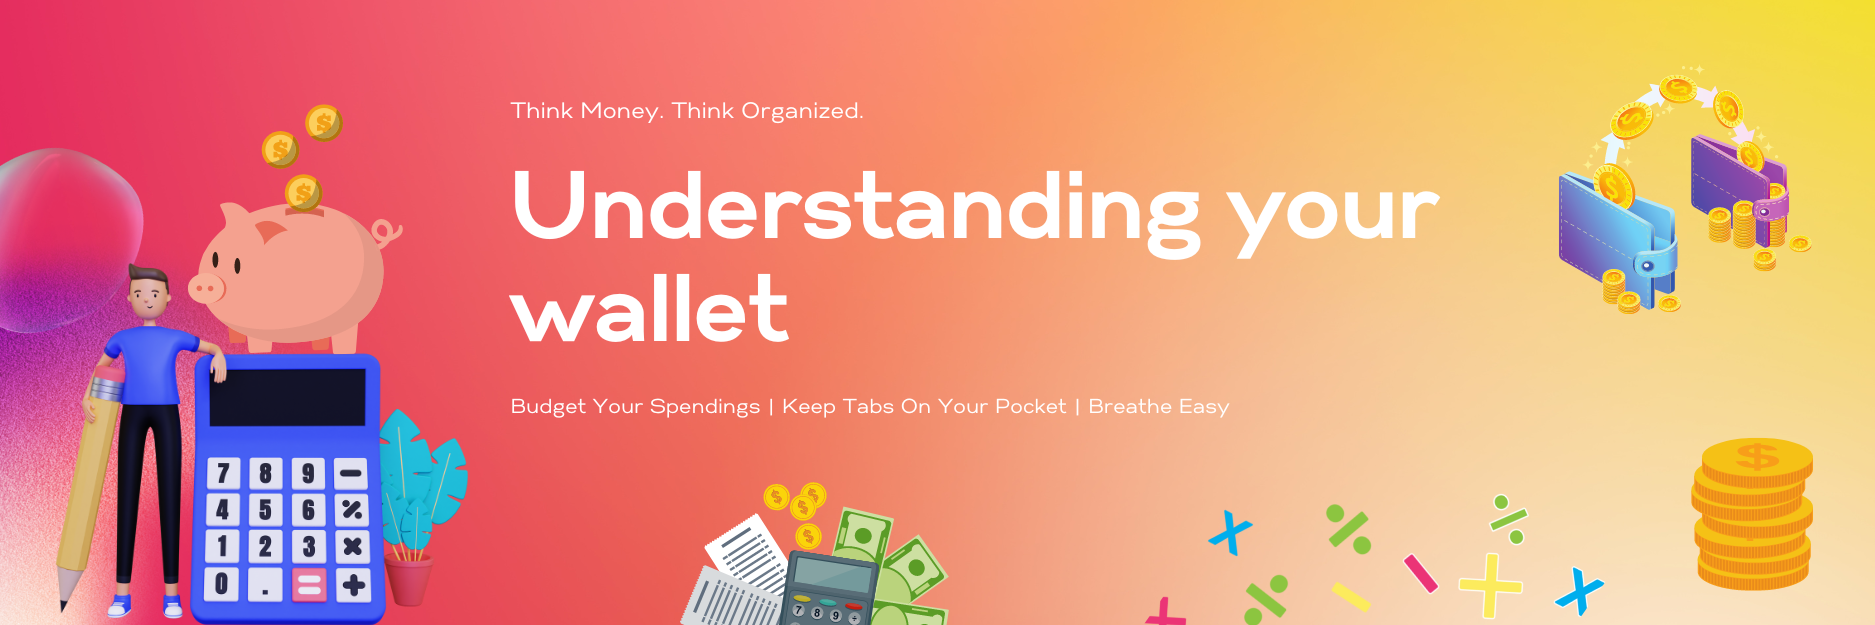
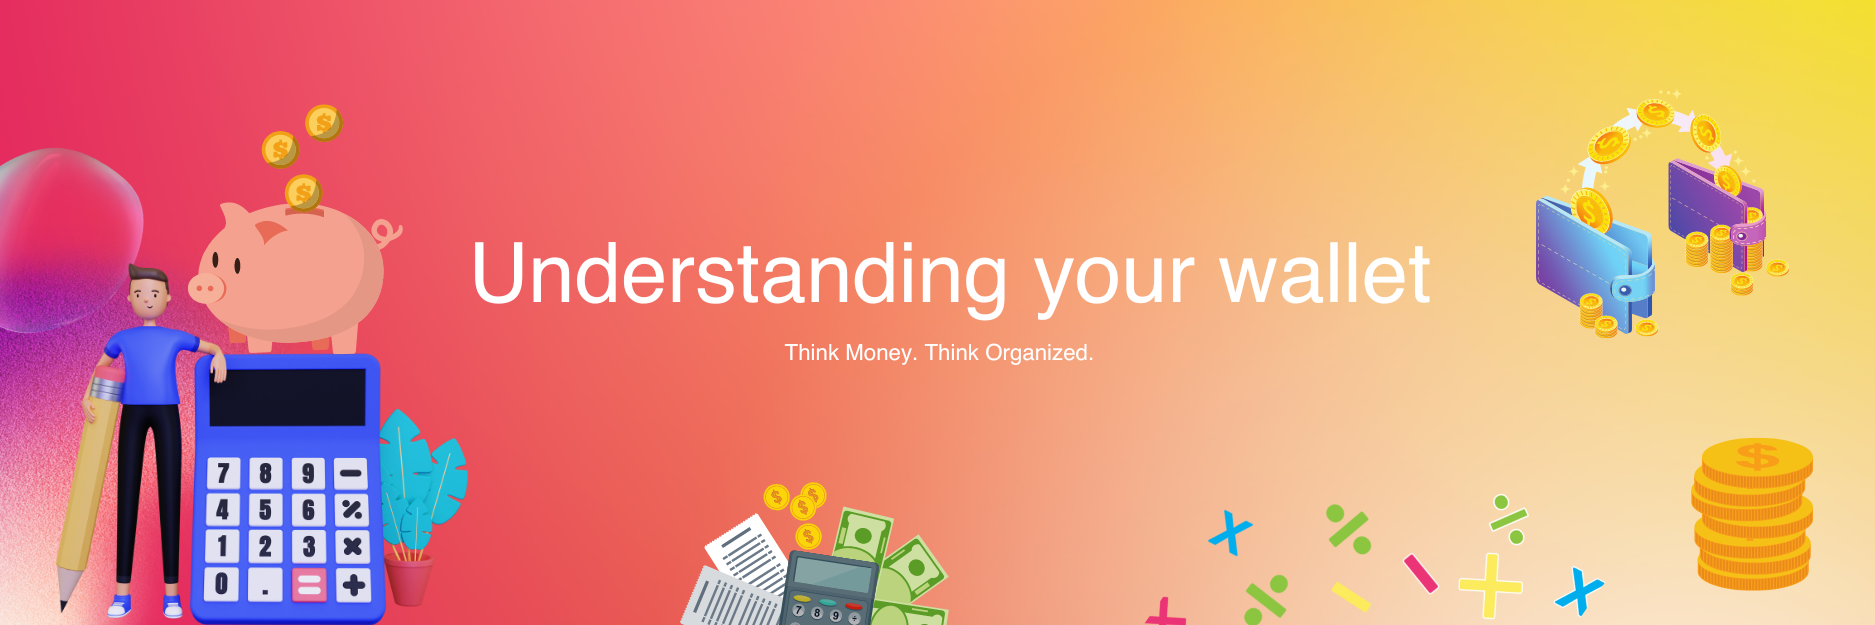
homepage

diff --git a/client/src/veiws/HomePage.jsx b/client/src/veiws/HomePage.jsx
@@ -1,62 +1,113 @@
 import React from 'react'
 import NavBar from '../components/NavBar'
-import main_banner from '../images/budget-banner.png';
+import main_banner from '../images/budget-banner2.png';
 import balances from '../images/Balances.png';
 import bills from '../images/Bills.png';
 import budget from '../images/Budget.png';
 import cardleft from '../images/card.lhand.png';
 import cardright from '../images/card.rhand.png';
+import car1 from '../images/car1.png';
+import car2 from '../images/car2.png';
+import car3 from '../images/car3.png';
 import item_1 from '../images/item1.png';
 import item_2 from '../images/item2.png';
 import item_3 from '../images/item3.png';
-
+import Card from '@mui/material/Modal';
+import Container from '@mui/material/Container';
+import Modal from '@mui/material/Modal';
+import Stack from '@mui/material/Modal';
 
 const HomePage = (props) => {
-  return(
-    <>
-      <NavBar theme={props.theme} setTheme={props.setTheme}/>
+  return (
+    <div>
+      <NavBar theme={props.theme} setTheme={props.setTheme} />
 
       <h1 className='text-center'>Budget Guard</h1>
 
-    {/* Main Landing Banner */}
-      <img src={main_banner} alt={"main_banner"} />
+      {/* Main Landing Banner */}
+      <img src={main_banner} alt={"main_banner"} className="img-fluid" />
 
-    {/* Second Banner Promotion */}
-      <div>
-        <div>
-          <img src={cardleft} alt={"cardleft"} />
-          <div>
+      {/* Second Banner Promotion */}
+      <div className="mt-5">
+        <div className="d-flex justify-content-between">
+          <img src={cardleft} alt={"cardleft"} className="img-fluid" />
+          <div className="text-center">
             <h2>Introducing Joint Budgetting Plans</h2>
             <p>Get in sync with your partner.</p>
           </div>
-            <img src={cardright} alt={"cardright"} />
+          <img src={cardright} alt={"cardright"} className="img-fluid" />
         </div>
       </div>
 
-    {/* Third Banner Details Space */}
+      {/* Third Banner Carasoul */}
+      <div id="carouselExample" class="carousel slide">
+        <div class="carousel-inner">
+          <div class="carousel-item active">
+            <img src={car1} className="d-block w-100" alt={car1} />
+          </div>
+          <div class="carousel-item">
+            <img src={car2} className="d-block w-100" alt={car2} />
+          </div>
+          <div class="carousel-item">
+            <img src={car3} className="d-block w-100" alt={car3} />
+          </div>
+        </div>
+        <button class="carousel-control-prev" type="button" data-bs-target="#carouselExample" data-bs-slide="prev">
+          <span class="carousel-control-prev-icon" aria-hidden="true"></span>
+          <span class="visually-hidden">Previous</span>
+        </button>
+        <button class="carousel-control-next" type="button" data-bs-target="#carouselExample" data-bs-slide="next">
+          <span class="carousel-control-next-icon" aria-hidden="true"></span>
+          <span class="visually-hidden">Next</span>
+        </button>
+      </div>
+
+      {/* SAMPLE ITEMS */}
       <div>
-        <div>
+        <div id="icons-1">
           <img src={item_1} alt={"item_1"} />
           <img src={item_2} alt={"item_2"} />
           <img src={item_3} alt={"item_3"} />
         </div>
-        <div>
+        <div className="text-center">
           <h2>Take Full Control Of Your Finances</h2>
           <p>Strike the perfect balance</p>
         </div>
-        <div>
-          <img src={balances} alt={"balances"} />
-          <img src={bills} alt={"bills"} />
-          <img src={budget} alt={"budget"} />
+        <div className="d-flex justify-content-evenly">
+          <img src={balances} alt={"balances"} className="w-25 h-25" />
+          <img src={bills} alt={"bills"} className="w-25 h-25" />
+          <img src={budget} alt={"budget"} className="w-25 h-25" />
         </div>
       </div>
 
-    {/* Fourth Banner Space Outro */}
-      <div>
+      <div id="carouselExample" class="carousel slide">
+        <div class="carousel-inner">
+          <div class="carousel-item active">
+            <img src={car1} className="d-block w-100" alt={car1} />
+          </div>
+          <div class="carousel-item">
+            <img src={car2} className="d-block w-100" alt={car2} />
+          </div>
+          <div class="carousel-item">
+            <img src={car3} className="d-block w-100" alt={car3} />
+          </div>
+        </div>
+        <button class="carousel-control-prev" type="button" data-bs-target="#carouselExample" data-bs-slide="prev">
+          <span class="carousel-control-prev-icon" aria-hidden="true"></span>
+          <span class="visually-hidden">Previous</span>
+        </button>
+        <button class="carousel-control-next" type="button" data-bs-target="#carouselExample" data-bs-slide="next">
+          <span class="carousel-control-next-icon" aria-hidden="true"></span>
+          <span class="visually-hidden">Next</span>
+        </button>
+      </div>
+
+      {/* Fourth Banner Space Outro */}
+      <div className="text-center">
         <p>Budget Guard's Mission</p>
         <p>No one cares about your finances like you do. Take charge today.</p>
       </div>
-    </>
+    </div>
   )
 }
 

diff --git a/client/src/index.css b/client/src/index.css
@@ -11,3 +11,7 @@ code {
   font-family: source-code-pro, Menlo, Monaco, Consolas, 'Courier New',
     monospace;
 }
+
+* {
+  font-family: 'Helvetica';
+}
